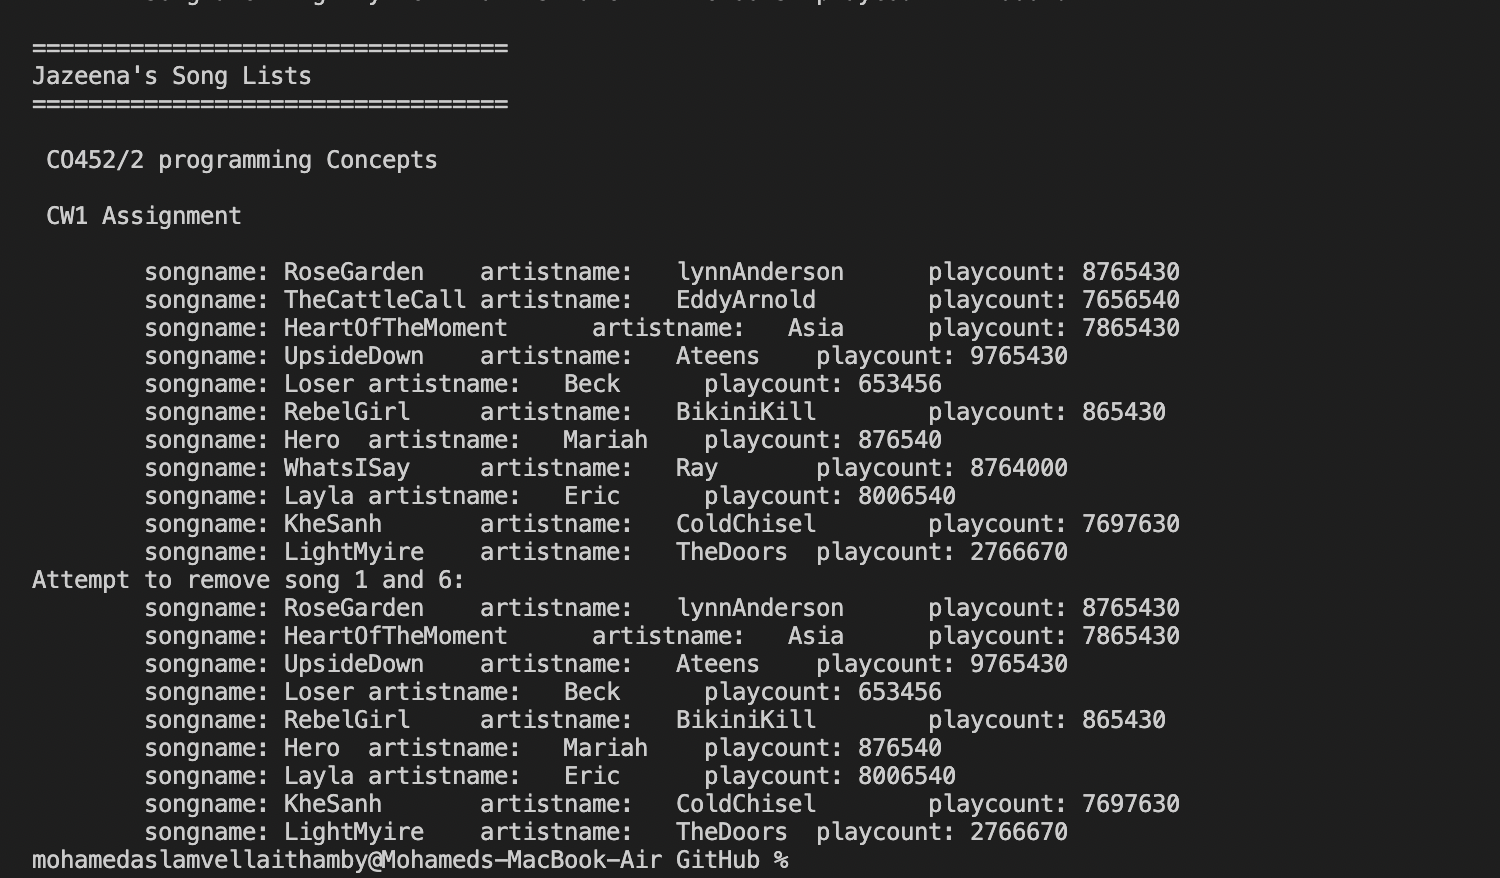
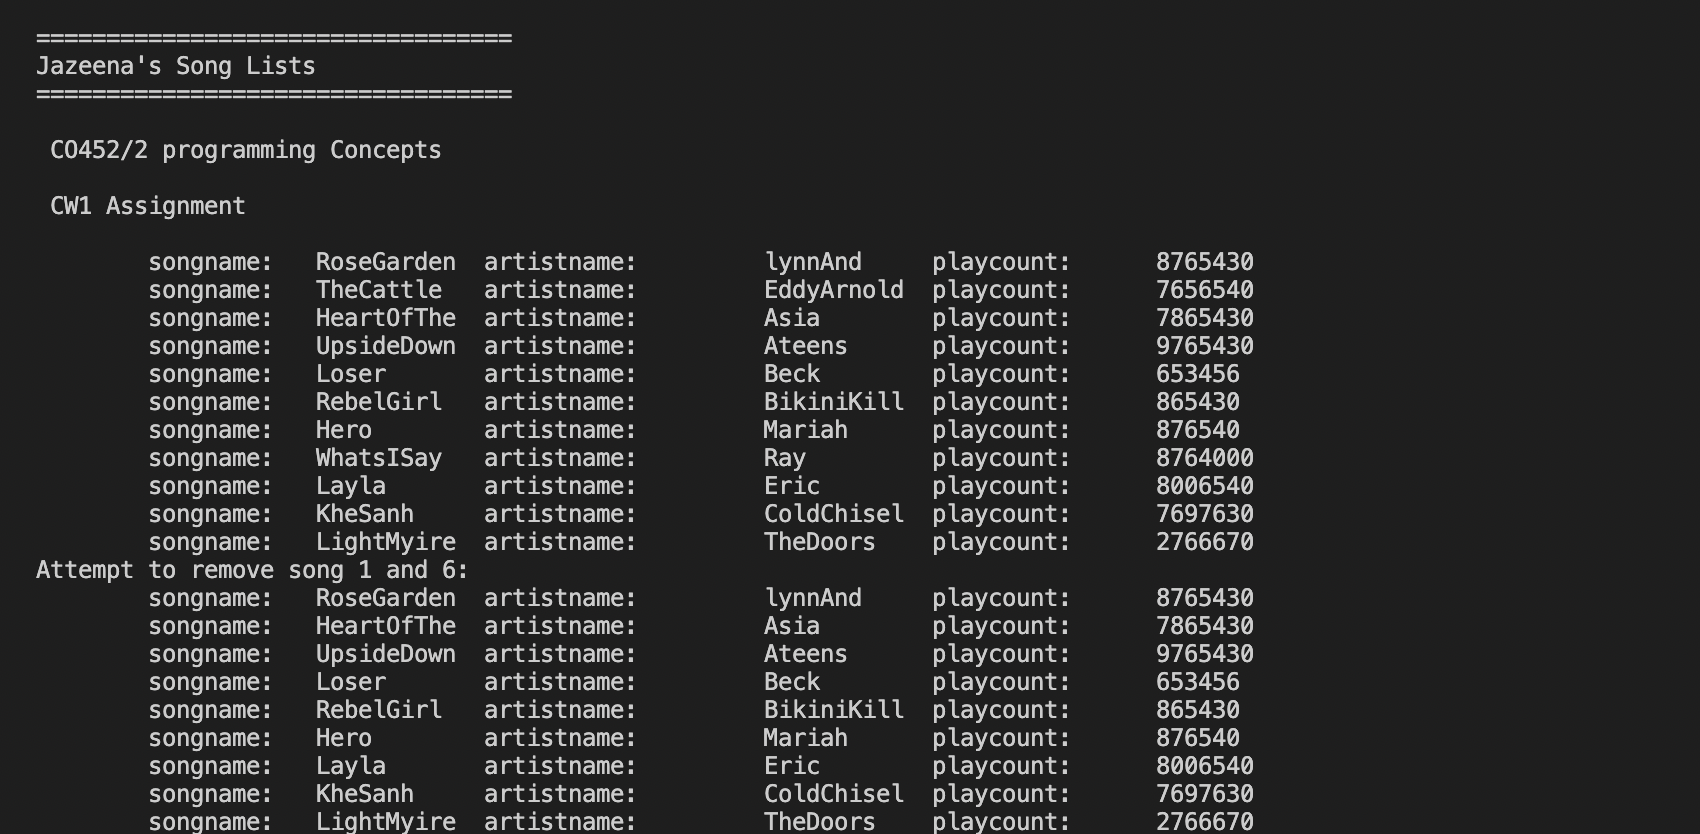
uppdated
updated

Changed region(s): [[0.0, 0.1559, 0.7973, 1.0], [0.0, 0.0312, 0.3373, 0.1247]]

diff --git a/src/Assignment/Program.java b/src/Assignment/Program.java
@@ -23,11 +23,11 @@ public class Program
         System.out.println();
         System.out.println(" CW1 Assignment");
         System.out.println();
-Songs lynnAnderson = new Songs("RoseGarden", "lynnAnderson", 8765430);
+Songs lynnAnderson = new Songs("RoseGarden", "lynnAnd", 8765430);
  //lynnanderson.print();
-Songs EddyArnold = new Songs("TheCattleCall", "EddyArnold", 7656540);
+Songs EddyArnold = new Songs("TheCattle", "EddyArnold", 7656540);
  //eddy.print();
- Songs Asia = new Songs("HeartOfTheMoment", "Asia", 7865430);
+Songs Asia = new Songs("HeartOfThe", "Asia", 7865430);
 //asia.print();
 Songs Ateens = new Songs("UpsideDown", "Ateens", 9765430);
 //ateens.print();
@@ -38,13 +38,13 @@ Songs BikiniKill = new Songs("RebelGirl", "BikiniKill", 865430);
 
 Songs Mariah = new Songs("Hero", "Mariah", 876540);
    //mariah.print();
-   Songs Ray= new Songs("WhatsISay", "Ray", 8764000);
+Songs Ray = new Songs("WhatsISay", "Ray  ", 8764000);
 //ray.print();
-Songs Eric=new Songs("Layla", "Eric", 8006540);
+Songs Eric = new Songs("Layla", "Eric", 8006540);
 //Eric.print();
-Songs ColdChisel=new Songs("KheSanh", "ColdChisel", 7697630);
+Songs ColdChisel = new Songs("KheSanh", "ColdChisel", 7697630);
 //ColdChisel.print();
-Songs TheDoors=new Songs("LightMyire", "TheDoors", 2766670);
+Songs TheDoors = new Songs("LightMyire", "TheDoors", 2766670);
 //theDoors.print();
 
 songs = new ArrayList<Songs>();

diff --git a/src/Assignment/Songs.java b/src/Assignment/Songs.java
@@ -15,7 +15,7 @@ public class Songs {
      //print method
      public void print()
      {
-        System.out.println("\tsongname: "+this.songname + "\tartistname:   "+this.artistname+ "\tplaycount: "+this.playcount);
+        System.out.println("\tsongname:   "+this.songname +                  "\tartistname:         "+this.artistname+       "\tplaycount:      "+this.playcount);
      
      }
    public String remove(int i) {
